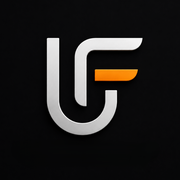
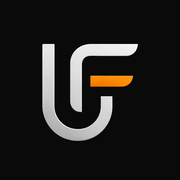
docs(agents): require posting commit message in chat, not just in the zip
Extend the delivery convention in AGENTS.md: whenever a project zip is
packaged for delivery, the Conventional Commits header and description
must now also be posted directly in the chat reply (in addition to the
existing COMMIT_MESSAGE.md file included in the zip), so Usef never has
to open the file or ask for the message separately.

No application code changed in this delivery — confirmed the new logo
(from the previous round) is still correctly in place in both Header
and Footer via the shared BrandLogo component / config/brand.ts, which
was already the single source both consume.

Changed region(s): [[0.3889, 0.1944, 0.8056, 0.6667], [0.2222, 0.1944, 0.6111, 0.8056]]

diff --git a/src/config/brand.ts b/src/config/brand.ts
@@ -23,13 +23,13 @@ export const brand = {
    * rendered size needs from this at request time, so this one file
    * covers every on-page usage without separate manually-cropped copies.
    *
-   * The source PNG has an opaque near-black background baked in (not
-   * true transparency) rather than a soft-edged cutout, matching
-   * --color-background (#0a0a0b) closely enough to be seamless on the
-   * only theme this site has today. If a light theme ships (see
-   * ThemeProvider's documented extension point), this file will need a
-   * transparent or light-background counterpart — flagging that now
-   * rather than leaving it to be discovered as a visual bug later.
+   * True transparency (not a baked-in background) — this works cleanly
+   * on the current dark theme and, unlike the previous version of this
+   * asset, needs no separate counterpart if a light theme ships later.
+   * The one deliberate exception is src/app/apple-icon.png: iOS handles
+   * transparent home-screen icons unpredictably, so that file alone has
+   * the site's dark background (#0a0a0b) baked in — regenerate it the
+   * same way if this mark changes again.
    */
   mark: {
     src: "/brand/logo-mark.png",

diff --git a/COMMIT_MESSAGE.md b/COMMIT_MESSAGE.md
@@ -1,14 +1,12 @@
-fix(media-viewer): dedupe adjacent preload indexes to prevent duplicate React keys
+docs(agents): require posting commit message in chat, not just in the zip
 
-Fix a console error — "Encountered two children with the same key,
-`media-personal-ai-gallery-1`" — thrown by MediaViewer's adjacent-image
-preloading whenever a gallery has exactly two items.
+Extend the delivery convention in AGENTS.md: whenever a project zip is
+packaged for delivery, the Conventional Commits header and description
+must now also be posted directly in the chat reply (in addition to the
+existing COMMIT_MESSAGE.md file included in the zip), so Usef never has
+to open the file or ask for the message separately.
 
-"Previous" and "next" adjacent indexes were computed independently as
-`(index - 1 + length) % length` and `(index + 1) % length`. With a
-2-item gallery, both expressions resolve to the same item, so the
-preload list rendered two hidden `<img>` elements sharing one key.
-
-Fix: collect the two adjacent indexes into a Set before mapping, so a
-2-item gallery preloads that one unique neighbor instead of listing it
-twice. No visible behavior change for galleries with 3+ items.
+No application code changed in this delivery — confirmed the new logo
+(from the previous round) is still correctly in place in both Header
+and Footer via the shared BrandLogo component / config/brand.ts, which
+was already the single source both consume.

diff --git a/AGENTS.md b/AGENTS.md
@@ -7,10 +7,14 @@ This version has breaking changes — APIs, conventions, and file structure may 
 
 # Delivery convention
 
-Whenever a zip of this project is packaged for delivery, also generate a
-`COMMIT_MESSAGE.md` file at the project root containing the Conventional
-Commits header and description for that round of changes, and include it
-in the zip. Overwrite it each time — it reflects only the most recent
-delivered change, not a running log. Usef runs the actual `git commit`
-himself; this file exists so he doesn't have to ask for the message
-separately each time.
+Whenever a zip of this project is packaged for delivery:
+
+1. Generate a `COMMIT_MESSAGE.md` file at the project root containing the
+   Conventional Commits header and description for that round of
+   changes, and include it in the zip. Overwrite it each time — it
+   reflects only the most recent delivered change, not a running log.
+2. Also post that same Conventional Commits header and description
+   directly in the chat reply, right after presenting the zip — don't
+   make Usef open the file to see it. Usef runs the actual `git commit`
+   himself; both copies exist so he never has to ask for the message
+   separately.
